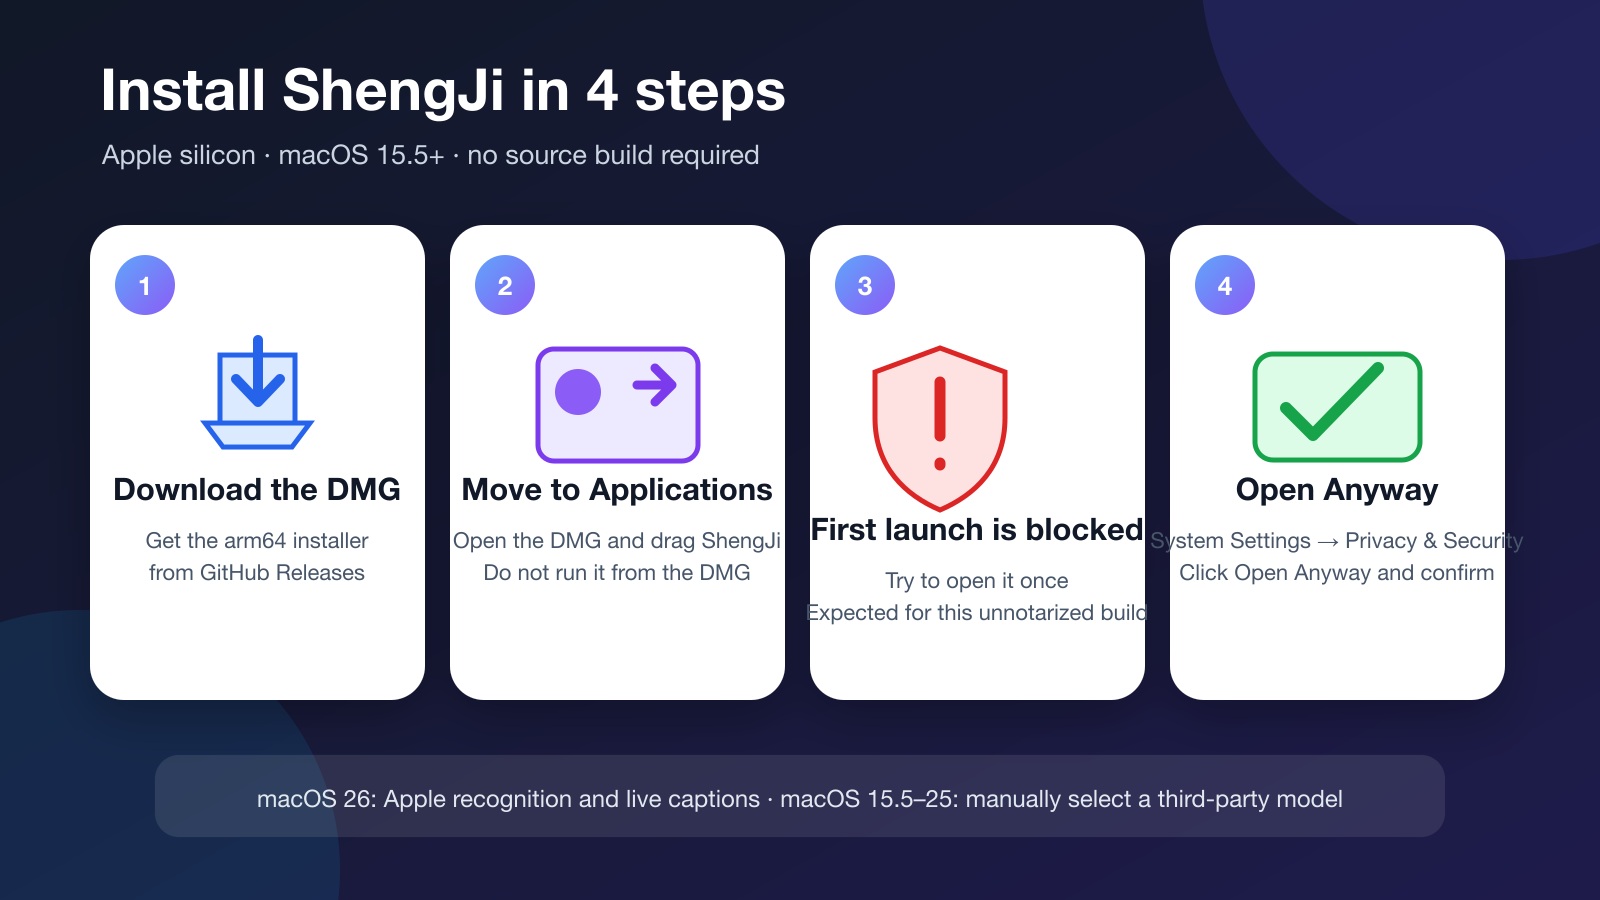
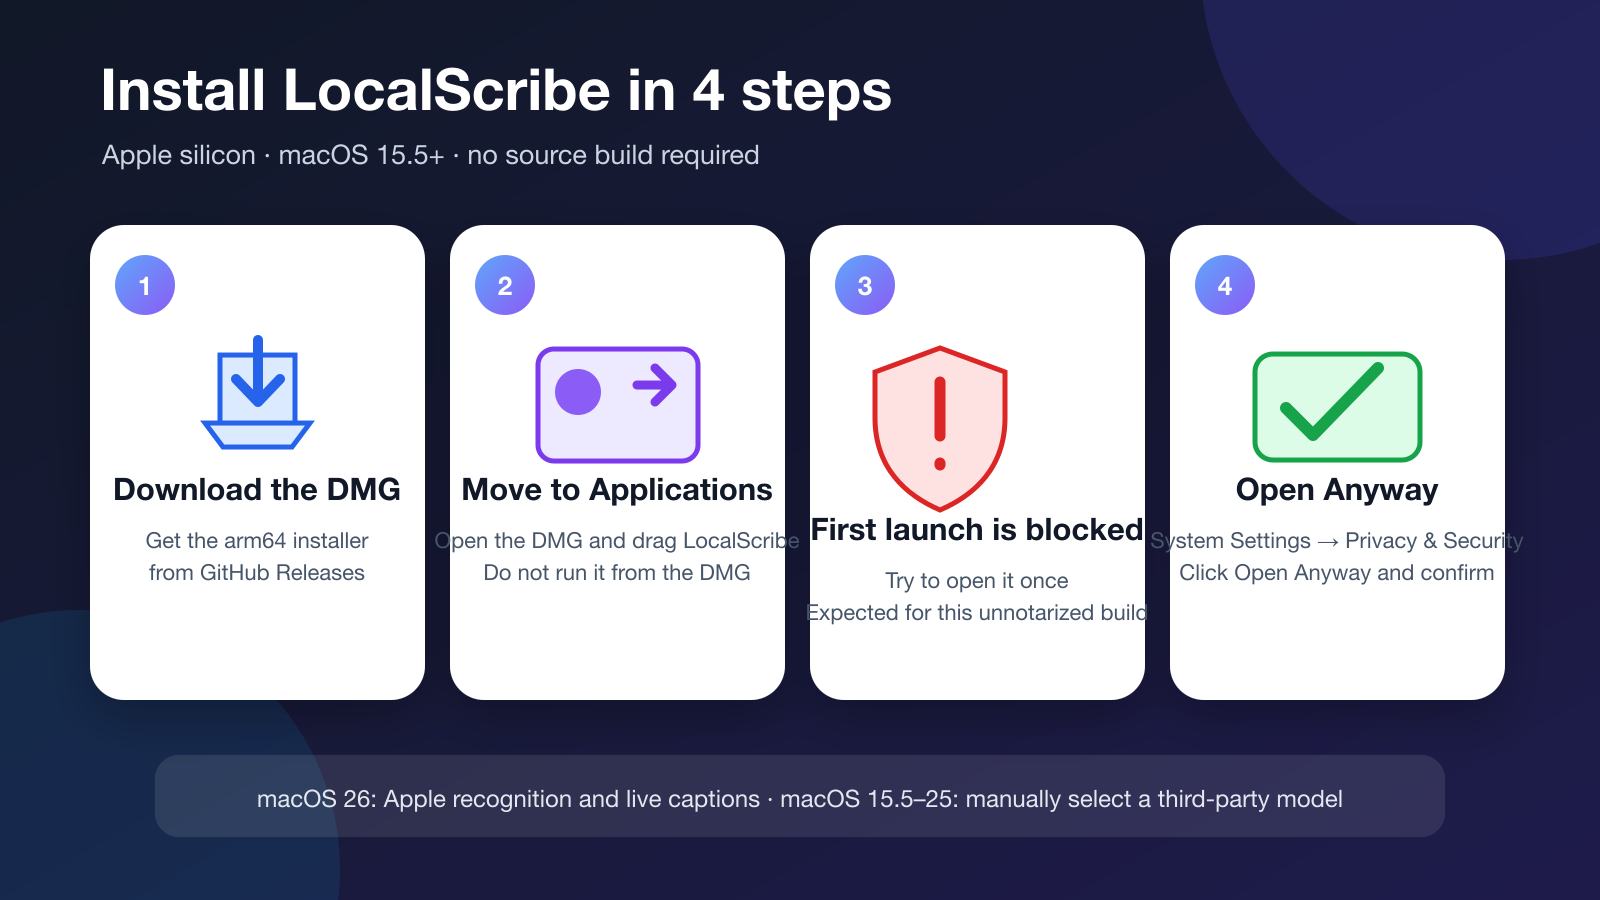
Rename English product to LocalScribe (#19)

Changed region(s): [[0.1562, 0.0622, 0.5625, 0.1556], [0.2812, 0.5911, 0.5, 0.6222]]

diff --git a/LocalScribeTests/GemmaSafetyTests.swift b/LocalScribeTests/GemmaSafetyTests.swift
@@ -138,17 +138,17 @@ final class GemmaSafetyTests: XCTestCase {
         defer { defaults.removePersistentDomain(forName: suiteName) }
 
         let preferences = AIPromptPreferences(defaults: defaults, appVersion: "1.6.4")
-        preferences.proofreadInstructions = "Always use the name ShengJi."
+        preferences.proofreadInstructions = "Always use the name LocalScribe."
         preferences.summaryInstructions = "Use three concise bullets."
         preferences.preservesAcrossUpdates = true
 
         let restored = AIPromptPreferences(defaults: defaults, appVersion: "1.6.5")
-        XCTAssertEqual(restored.proofreadInstructions, "Always use the name ShengJi.")
+        XCTAssertEqual(restored.proofreadInstructions, "Always use the name LocalScribe.")
         XCTAssertEqual(restored.summaryInstructions, "Use three concise bullets.")
         XCTAssertTrue(restored.preservesAcrossUpdates)
         XCTAssertEqual(
             restored.instructions(for: .proofread, oneTimeInstructions: "Prefer Canadian spelling."),
-            "Always use the name ShengJi.\n\nPrefer Canadian spelling."
+            "Always use the name LocalScribe.\n\nPrefer Canadian spelling."
         )
     }
 

diff --git a/LocalScribe/Views/RootView.swift b/LocalScribe/Views/RootView.swift
@@ -57,11 +57,11 @@ struct RootView: View {
             }
             if ProcessInfo.processInfo.environment["LOCALSCRIBE_RESULT_PREVIEW"] == "1" {
                 let preview = TranscriptionSessionModel(
-                    source: .recovered("转录结果预览"),
+                    source: .recovered("LocalScribe sample"),
                     locale: Locale(identifier: "en_US"),
                     configuration: RecognitionConfiguration(engine: .apple)
                 )
-                preview.transcriptText = "Some people say the secret to happiness is having no expectations. The transcript remains editable after recognition finishes."
+                preview.transcriptText = "LocalScribe turns speech into editable text on this Mac. Recognition and optional translation run on the device. You can search, replace, and refine the transcript after recognition finishes. Export options include text, Markdown, subtitles, and PDF. Your recording and transcript are not uploaded by the app."
                 preview.elapsed = 18
                 preview.phase = .finished
                 session = preview

diff --git a/LocalScribeTests/LocalizationTests.swift b/LocalScribeTests/LocalizationTests.swift
@@ -8,9 +8,17 @@ final class LocalizationTests: XCTestCase {
         let english = try XCTUnwrap(localizationBundle(language: "en"))
         let chinese = try XCTUnwrap(localizationBundle(language: "zh-Hans"))
 
-        XCTAssertEqual(english.localizedString(forKey: "声迹", value: nil, table: nil), "ShengJi")
+        XCTAssertEqual(english.localizedString(forKey: "声迹", value: nil, table: nil), "LocalScribe")
         XCTAssertEqual(english.localizedString(forKey: "开始转录", value: nil, table: nil), "Start Transcription")
         XCTAssertEqual(chinese.localizedString(forKey: "声迹", value: nil, table: nil), "声迹")
+        XCTAssertEqual(
+            english.localizedString(forKey: "CFBundleDisplayName", value: nil, table: "InfoPlist"),
+            "LocalScribe"
+        )
+        XCTAssertEqual(
+            chinese.localizedString(forKey: "CFBundleDisplayName", value: nil, table: "InfoPlist"),
+            "声迹"
+        )
     }
 
     func testEveryRuntimeLocalizationKeyHasEnglishAndChineseValues() throws {

diff --git a/LocalScribeTests/LongTaskStorageTests.swift b/LocalScribeTests/LongTaskStorageTests.swift
@@ -88,7 +88,7 @@ final class LongTaskStorageTests: XCTestCase {
           "whisperModel": "tiny",
           "advancedOptions": {
             "whisper": {
-              "initialPrompt": "ShengJi terminology",
+              "initialPrompt": "LocalScribe terminology",
               "temperature": 7,
               "beamSize": 99,
               "threadCount": -4
@@ -103,7 +103,7 @@ final class LongTaskStorageTests: XCTestCase {
         }
         """#.utf8)
         let configuration = try JSONDecoder().decode(RecognitionConfiguration.self, from: data)
-        XCTAssertEqual(configuration.advancedOptions.whisper.initialPrompt, "ShengJi terminology")
+        XCTAssertEqual(configuration.advancedOptions.whisper.initialPrompt, "LocalScribe terminology")
         XCTAssertEqual(configuration.advancedOptions.whisper.temperature, 1)
         XCTAssertEqual(configuration.advancedOptions.whisper.beamSize, 20)
         XCTAssertEqual(configuration.advancedOptions.whisper.threadCount, 0)

diff --git a/LocalScribeTests/AppUpdateControllerTests.swift b/LocalScribeTests/AppUpdateControllerTests.swift
@@ -28,7 +28,7 @@ final class AppUpdateControllerTests: XCTestCase {
         let probe = UpdateClientProbe()
         let manifest = newerManifest
         let preparedURL = FileManager.default.temporaryDirectory
-            .appendingPathComponent("Prepared-ShengJi.app", isDirectory: true)
+            .appendingPathComponent("Prepared-LocalScribe.app", isDirectory: true)
         let controller = AppUpdateController(
             defaults: defaults,
             currentVersion: "1.6.0",
@@ -85,7 +85,7 @@ final class AppUpdateControllerTests: XCTestCase {
         AppUpdateManifest(
             version: "9.0.0",
             build: "99",
-            downloadURL: URL(string: "https://example.invalid/ShengJi.zip")!,
+            downloadURL: URL(string: "https://example.invalid/LocalScribe.zip")!,
             sha256: String(repeating: "a", count: 64),
             releaseNotes: nil,
             minimumSystemVersion: "15.5",

diff --git a/LocalScribeTests/WhisperPipelineTests.swift b/LocalScribeTests/WhisperPipelineTests.swift
@@ -195,7 +195,7 @@ final class WhisperPipelineTests: XCTestCase {
             preference: .metal
         )
         var options = WhisperAdvancedOptions.default
-        options.initialPrompt = "Sherpa ONNX, NVIDIA Parakeet, ShengJi."
+        options.initialPrompt = "Sherpa ONNX, NVIDIA Parakeet, LocalScribe."
         options.temperature = 0.1
         options.beamSize = 3
         let result = try await WhisperFileProcessor.process(

diff --git a/LocalScribe/Views/SettingsView.swift b/LocalScribe/Views/SettingsView.swift
@@ -276,7 +276,7 @@ struct SettingsView: View {
 
             Section("当前版本") {
                 LabeledContent("版本", value: "\(AppInfo.version) (\(AppInfo.build))")
-                Text("更新由 ShengJi 的官方 GitHub Release 提供。")
+                Text("更新由声迹的官方 GitHub Release 提供。")
                     .font(.caption)
                     .foregroundStyle(.secondary)
             }

diff --git a/LocalScribe/Views/StartView.swift b/LocalScribe/Views/StartView.swift
@@ -31,7 +31,7 @@ struct StartView: View {
             .padding(.horizontal, 32)
             .frame(maxWidth: .infinity)
         }
-        .navigationTitle("声迹")
+        .navigationTitle(L10n.text("声迹"))
         .toolbar {
             ToolbarItem(placement: .primaryAction) {
                 Button("选择文件", systemImage: "plus") { chooseFile() }

diff --git a/generate_project.rb b/generate_project.rb
@@ -14,7 +14,7 @@ project.root_object.development_region = "zh-Hans"
 project.root_object.known_regions = ["zh-Hans", "en", "Base"]
 
 target = project.new_target(:application, "LocalScribe", :osx, "15.5")
-target.product_reference.name = "声迹.app"
+target.product_reference.name = "LocalScribe.app"
 
 main_group = project.main_group.new_group("LocalScribe", "LocalScribe")
 source_files = %w[

diff --git a/README.md b/README.md
@@ -1,4 +1,4 @@
-# ShengJi (LocalScribe)
+# LocalScribe
 
 **English** | [Chinese (Simplified)](README.zh-CN.md)
 
@@ -6,30 +6,30 @@
 [![Apple silicon](https://img.shields.io/badge/Apple%20silicon-arm64-555555)](https://support.apple.com/guide/mac-help/about-this-mac-mchl3a2c2cb0/mac)
 [![License: MIT](https://img.shields.io/badge/License-MIT-blue.svg)](LICENSE)
 [![CI](https://github.com/maddylaneeee/ShengJi/actions/workflows/ci.yml/badge.svg)](https://github.com/maddylaneeee/ShengJi/actions/workflows/ci.yml)
-[![Download for macOS](https://img.shields.io/badge/download-macOS%20DMG-0A84FF?logo=github)](https://github.com/maddylaneeee/ShengJi/releases/latest/download/ShengJi-macOS-arm64.dmg)
+[![Download for macOS](https://img.shields.io/badge/download-macOS%20DMG-0A84FF?logo=github)](https://github.com/maddylaneeee/ShengJi/releases/latest/download/LocalScribe-macOS-arm64.dmg)
 
 **Turn microphones, media files, and the sound playing on your Mac into editable text and subtitles—locally.**
 
-ShengJi is a free, open-source native speech-to-text and audio/video transcription app for Apple silicon Macs, with no account required. It combines local recognition, floating live captions, subtitle editing and export, offline translation, long-task recovery, and on-device Gemma 4 transcript enhancement behind one SwiftUI interface. Audio, imported transcripts, and AI processing content are not uploaded by the app.
+LocalScribe is a free, open-source native speech-to-text and audio/video transcription app for Apple silicon Macs, with no account required. It combines local recognition, floating live captions, subtitle editing and export, offline translation, long-task recovery, and on-device Gemma 4 transcript enhancement behind one SwiftUI interface. Audio, imported transcripts, and AI processing content are not uploaded by the app.
 
-Current version: **1.6.4 (34)** · [Download DMG](https://github.com/maddylaneeee/ShengJi/releases/latest/download/ShengJi-macOS-arm64.dmg) · [Non-developer download guide](Documentation/DOWNLOAD.md) · [User documentation](https://lixinchen.ca/docs/localscribe/)
+Current version: **1.6.4 (35)** · [Download DMG](https://github.com/maddylaneeee/ShengJi/releases/latest/download/LocalScribe-macOS-arm64.dmg) · [Non-developer download guide](Documentation/DOWNLOAD.md) · [User documentation](https://lixinchen.ca/docs/localscribe/)
 
 > [!TIP]
-> **New in 1.6.4 — on-device Gemma 4 transcript enhancement:** Proofread, refine, or summarize completed transcripts with custom instructions, live result previews, and one-click undo. Your transcript stays on your Mac. [Explore Gemma 4 AI enhancement](#on-device-gemma-4-transcript-enhancement-new-in-164)
+> **New in build 35 — one clear English name:** The English app and product name is now LocalScribe. The Simplified Chinese interface keeps its existing localized name. This build also includes the on-device Gemma 4 transcript enhancement introduced in 1.6.4. [Explore Gemma 4 AI enhancement](#on-device-gemma-4-transcript-enhancement-new-in-164)
 
 ## See it in action
 
-![ShengJi opening an audio file, choosing local transcription settings, and producing editable text in English](Documentation/MediaKit/shengji-demo-en.gif)
+![LocalScribe home and editable transcript views in English](Documentation/MediaKit/localscribe-demo-en.gif)
 
-Open app → choose audio → select language and model → get editable local text. The demo uses non-private sample content.
+Open LocalScribe → choose an input → get editable local text. The demo uses deterministic, non-private preview content.
 
 > [!IMPORTANT]
 > **Apple SpeechAnalyzer recognition and floating live captions require macOS 26.** The app itself supports macOS 15.5 or later. On macOS 15.5–25, manually select Whisper, SenseVoice, or Parakeet on the home screen. SenseVoice and Parakeet currently support file transcription only.
 
 ## Download and install
 
-1. [Download the latest DMG](https://github.com/maddylaneeee/ShengJi/releases/latest/download/ShengJi-macOS-arm64.dmg).
-2. Open it and drag ShengJi to Applications.
+1. [Download the latest DMG](https://github.com/maddylaneeee/ShengJi/releases/latest/download/LocalScribe-macOS-arm64.dmg).
+2. Open it and drag LocalScribe to Applications.
 3. The first launch will be blocked. After trying once, open System Settings → Privacy & Security, click Open Anyway, then confirm Open.
 
 For illustrated steps, troubleshooting, and SHA-256 verification, see the [Download and Installation Guide](Documentation/DOWNLOAD.md).
@@ -37,7 +37,7 @@ For illustrated steps, troubleshooting, and SHA-256 verification, see the [Downl
 > [!WARNING]
 > This build has an ad-hoc integrity signature only. It is neither Developer ID signed nor notarized by Apple. Override the warning only if you trust this repository and its Release. SHA-256 files are included with every Release.
 
-![ShengJi home screen in English with model selection, import, translation and live-caption controls](Documentation/Screenshots/home-en.png)
+![LocalScribe home screen in English with model selection, import, translation and live-caption controls](Documentation/Screenshots/home-en.png)
 
 ## On-device Gemma 4 transcript enhancement (new in 1.6.4)
 
@@ -51,9 +51,9 @@ Gemma removes filler, repetition, and obvious transcription errors while preserv
 
 Summaries replace the text preview while keeping an undo snapshot of the original. Add one-time instructions for names, terminology, writing style, summary length, priorities, or format, and optionally save reusable instructions in Settings. AI output should still be reviewed.
 
-The default Gemma 4 E2B IT Q4 model is about 2.8 GB; an optional E4B model of about 4.6 GB can be enabled in Settings. Models are downloaded on demand, verified, and run on the Mac through llama.cpp and Metal. AI Enhancement is disabled on Macs with 6 GB of physical memory or less. Before loading Gemma, ShengJi releases its active recognition and NLLB translation runtimes; the Gemma helper exits when the task finishes.
+The default Gemma 4 E2B IT Q4 model is about 2.8 GB; an optional E4B model of about 4.6 GB can be enabled in Settings. Models are downloaded on demand, verified, and run on the Mac through llama.cpp and Metal. AI Enhancement is disabled on Macs with 6 GB of physical memory or less. Before loading Gemma, LocalScribe releases its active recognition and NLLB translation runtimes; the Gemma helper exits when the task finishes.
 
-## Why ShengJi?
+## Why LocalScribe?
 
 - **Local by default.** Recognition and optional translation run on the Mac; input audio and imported transcripts are not uploaded by the app.
 - **More than dictation.** Use microphone input, media files, Mac audio, floating live captions, transcript editing, recovery, and subtitle export in one workflow.
@@ -65,13 +65,13 @@ The default Gemma 4 E2B IT Q4 model is about 2.8 GB; an optional E4B model of ab
 
 ## Transcript editing and translation
 
-![ShengJi transcript editor in English with local translation, search, range editing, export and privacy details](Documentation/Screenshots/transcript-editor-en.png)
+![LocalScribe transcript editor in English with local translation, search, range editing, export and privacy details](Documentation/Screenshots/transcript-editor-en.png)
 
-The screenshots are from version 1.6.0 of the real macOS app and use an isolated profile with non-private test transcript content. ShengJi includes complete English and Simplified Chinese interfaces.
+The screenshots are from version 1.6.0 of the real macOS app and use an isolated profile with non-private test transcript content. LocalScribe includes complete English and Simplified Chinese interfaces.
 
 ## Languages
 
-ShengJi follows the preferred language order in macOS by default. You can also switch the app immediately between English and Simplified Chinese in Settings without changing the system language; the menu bar and live-caption source controls update at the same time. Recognition-language menus place English and the Mac's language in a deduplicated Recommended Languages section. Settings also provide System, Light, and Dark appearance choices, plus current microphone, speech-recognition, and system-audio permission status.
+LocalScribe follows the preferred language order in macOS by default. You can also switch the app immediately between English and Simplified Chinese in Settings without changing the system language; the menu bar and live-caption source controls update at the same time. Recognition-language menus place English and the Mac's language in a deduplicated Recommended Languages section. Settings also provide System, Light, and Dark appearance choices, plus current microphone, speech-recognition, and system-audio permission status.
 
 ## Recognition and translation engines
 
@@ -155,9 +155,9 @@ By default it uses the configured local certificate. Set `CODESIGN_IDENTITY=-` t
 ## CLI
 
 ```sh
-ShengJi.app/Contents/MacOS/LocalScribe --cli help
-ShengJi.app/Contents/MacOS/LocalScribe --cli models --json
-ShengJi.app/Contents/MacOS/LocalScribe --cli transcribe input.mp4 \
+LocalScribe.app/Contents/MacOS/LocalScribe --cli help
+LocalScribe.app/Contents/MacOS/LocalScribe --cli models --json
+LocalScribe.app/Contents/MacOS/LocalScribe --cli transcribe input.mp4 \
   --engine whisper --language en_US --format srt --output output.srt
 ```
 
@@ -180,6 +180,6 @@ The built-in updater checks at launch and every six hours by default, reads `upd
 
 ## License
 
-ShengJi source code is available under the [MIT License](LICENSE). Third-party components and models retain their original licenses; see [THIRD_PARTY_NOTICES.md](THIRD_PARTY_NOTICES.md) and the license files under `Vendor`.
+LocalScribe source code is available under the [MIT License](LICENSE). Third-party components and models retain their original licenses; see [THIRD_PARTY_NOTICES.md](THIRD_PARTY_NOTICES.md) and the license files under `Vendor`.
 
 The optional NLLB model is distributed upstream under CC-BY-NC-4.0.

diff --git a/Documentation/DOWNLOAD.md b/Documentation/DOWNLOAD.md
@@ -1,12 +1,12 @@
-# ShengJi Download and Installation Guide
+# LocalScribe Download and Installation Guide
 
 **English** | [Chinese (Simplified)](DOWNLOAD.zh-CN.md)
 
-This guide is for people who want to install ShengJi without reading or building the source code. Installation normally takes 2–5 minutes.
+This guide is for people who want to install LocalScribe without reading or building the source code. Installation normally takes 2–5 minutes.
 
-[Download the latest DMG](https://github.com/maddylaneeee/ShengJi/releases/latest/download/ShengJi-macOS-arm64.dmg)
+[Download the latest DMG](https://github.com/maddylaneeee/ShengJi/releases/latest/download/LocalScribe-macOS-arm64.dmg)
 
-![Four-step ShengJi download and installation guide](MediaKit/download-flow-en.png)
+![Four-step LocalScribe download and installation guide](MediaKit/download-flow-en.png)
 
 ## Before you install
 
@@ -20,16 +20,16 @@ Choose Apple menu → About This Mac if you are unsure which chip or macOS versi
 ## Step 1: Download the installer
 
 1. Open the [latest Release](https://github.com/maddylaneeee/ShengJi/releases/latest).
-2. Download `ShengJi-macOS-arm64.dmg`.
+2. Download `LocalScribe-macOS-arm64.dmg`.
 3. Your browser normally saves it in Downloads.
 
 Most users only need the DMG. The ZIP is primarily for in-app updates and advanced users; `.sha256` files verify download integrity.
 
-## Step 2: Move ShengJi to Applications
+## Step 2: Move LocalScribe to Applications
 
-1. Double-click `ShengJi-macOS-arm64.dmg`.
-2. Drag ShengJi to Applications in the window that appears.
-3. Eject the ShengJi disk image after the copy finishes.
+1. Double-click `LocalScribe-macOS-arm64.dmg`.
+2. Drag LocalScribe to Applications in the window that appears.
+3. Eject the LocalScribe disk image after the copy finishes.
 
 Run the installed copy from Applications instead of leaving the app inside the DMG. This makes permissions and updates more reliable.
 
@@ -37,9 +37,9 @@ Run the installed copy from Applications instead of leaving the app inside the D
 
 The current public build is not Apple Developer ID signed or notarized, so macOS blocks the first launch.
 
-1. Double-click ShengJi in Applications, allow macOS to show the blocked-app message, and close the message.
+1. Double-click LocalScribe in Applications, allow macOS to show the blocked-app message, and close the message.
 2. Open System Settings → Privacy & Security.
-3. Find the message saying ShengJi was blocked and click Open Anyway.
+3. Find the message saying LocalScribe was blocked and click Open Anyway.
 4. Confirm Open.
 
 Only override the warning when the app came from this project's GitHub Release and you trust the project. macOS normally remembers the choice for that installed copy.
@@ -70,13 +70,13 @@ If you previously selected Don't Allow, reopen the relevant permission in System
 
 ## Verify SHA-256 (optional)
 
-Each Release includes `ShengJi-macOS-arm64.dmg.sha256`. Advanced users can open Terminal, change to the download directory, and run:
+Each Release includes `LocalScribe-macOS-arm64.dmg.sha256`. Advanced users can open Terminal, change to the download directory, and run:
 
 ```sh
-shasum -a 256 -c ShengJi-macOS-arm64.dmg.sha256
+shasum -a 256 -c LocalScribe-macOS-arm64.dmg.sha256
 ```
 
-`ShengJi-macOS-arm64.dmg: OK` means the file matches the checksum published with the Release.
+`LocalScribe-macOS-arm64.dmg: OK` means the file matches the checksum published with the Release.
 
 ## Troubleshooting
 
@@ -94,7 +94,7 @@ Confirm that the model download finished and check the network connection and fr
 
 ### The app cannot update itself
 
-Make sure ShengJi is in Applications and that your account can write to the installed app. You can also download the latest DMG and install over the existing copy.
+Make sure LocalScribe is in Applications and that your account can write to the installed app. You can also download the latest DMG and install over the existing copy.
 
 ### Report a problem
 
@@ -102,7 +102,7 @@ Open a [GitHub Issue](https://github.com/maddylaneeee/ShengJi/issues) and includ
 
 - Mac chip;
 - macOS version;
-- ShengJi version;
+- LocalScribe version;
 - recognition engine and model;
 - reproduction steps and the exact error message.
 
